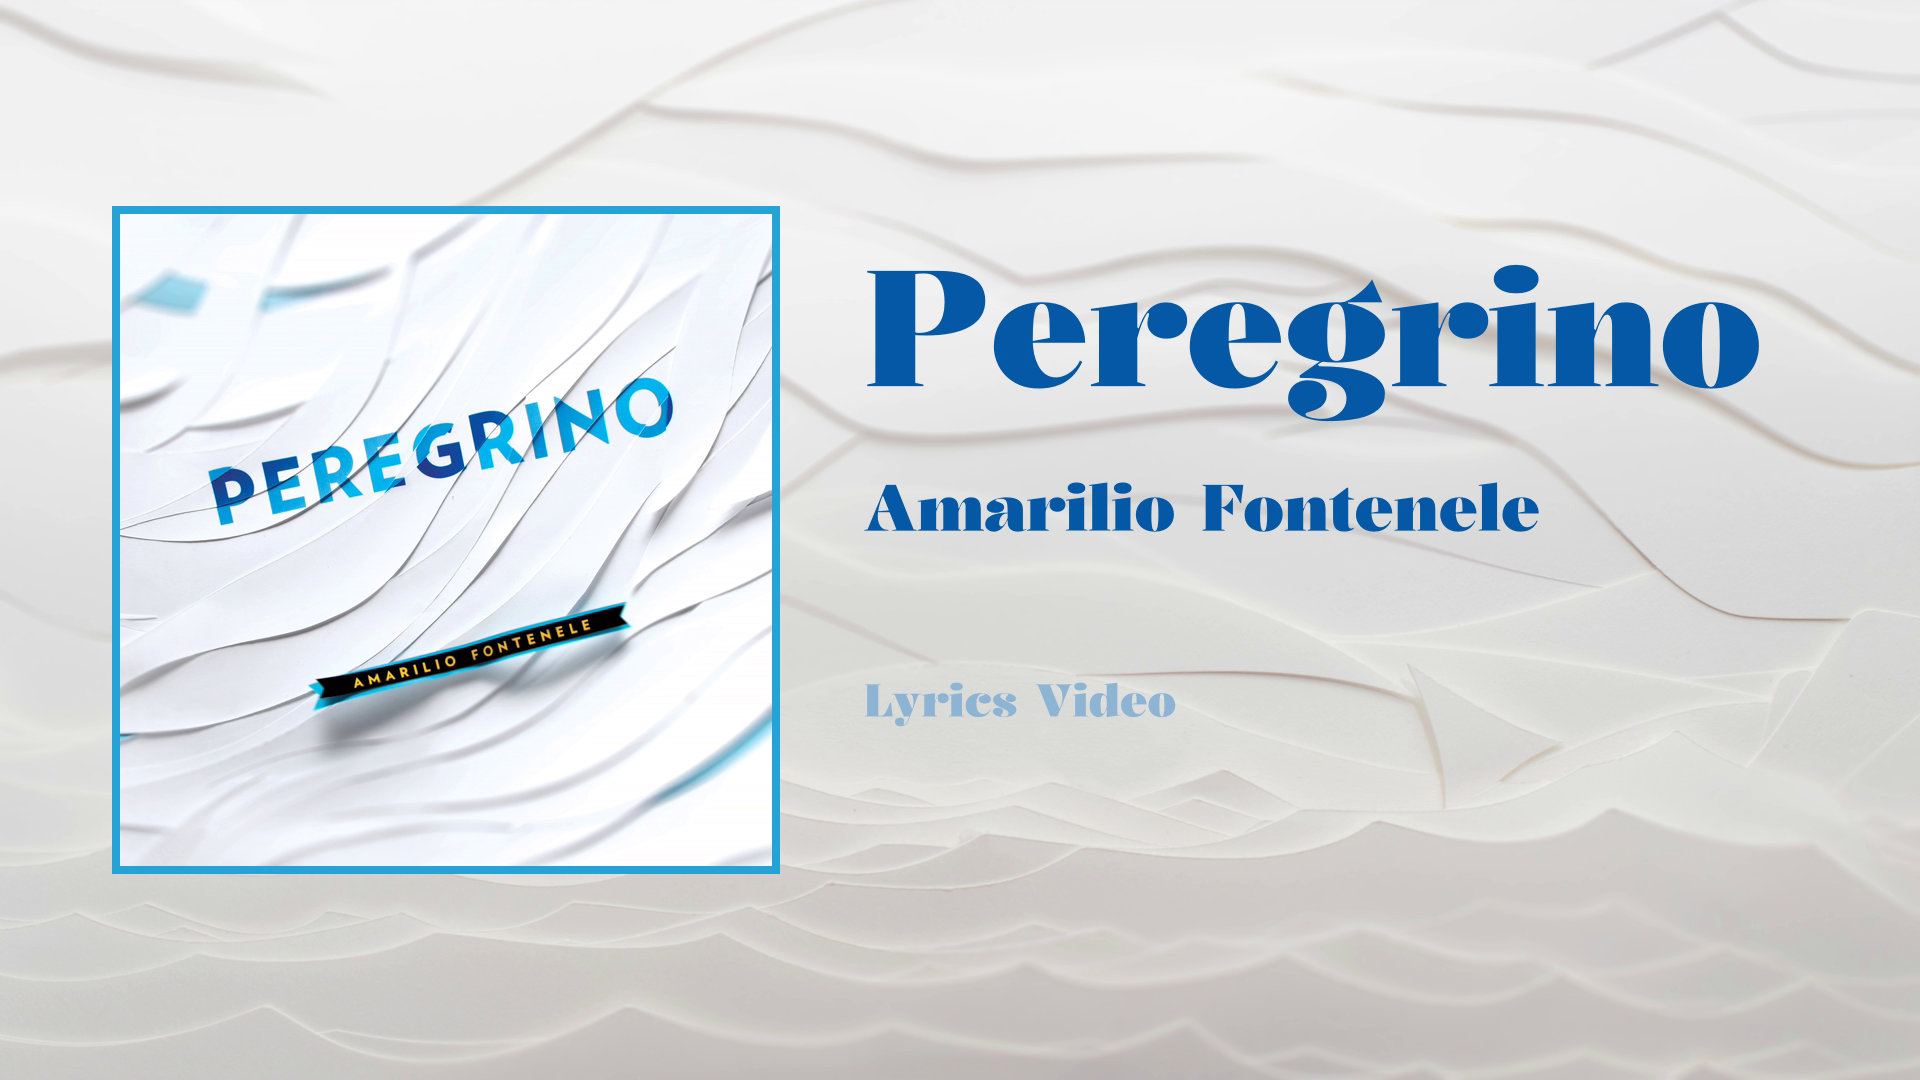
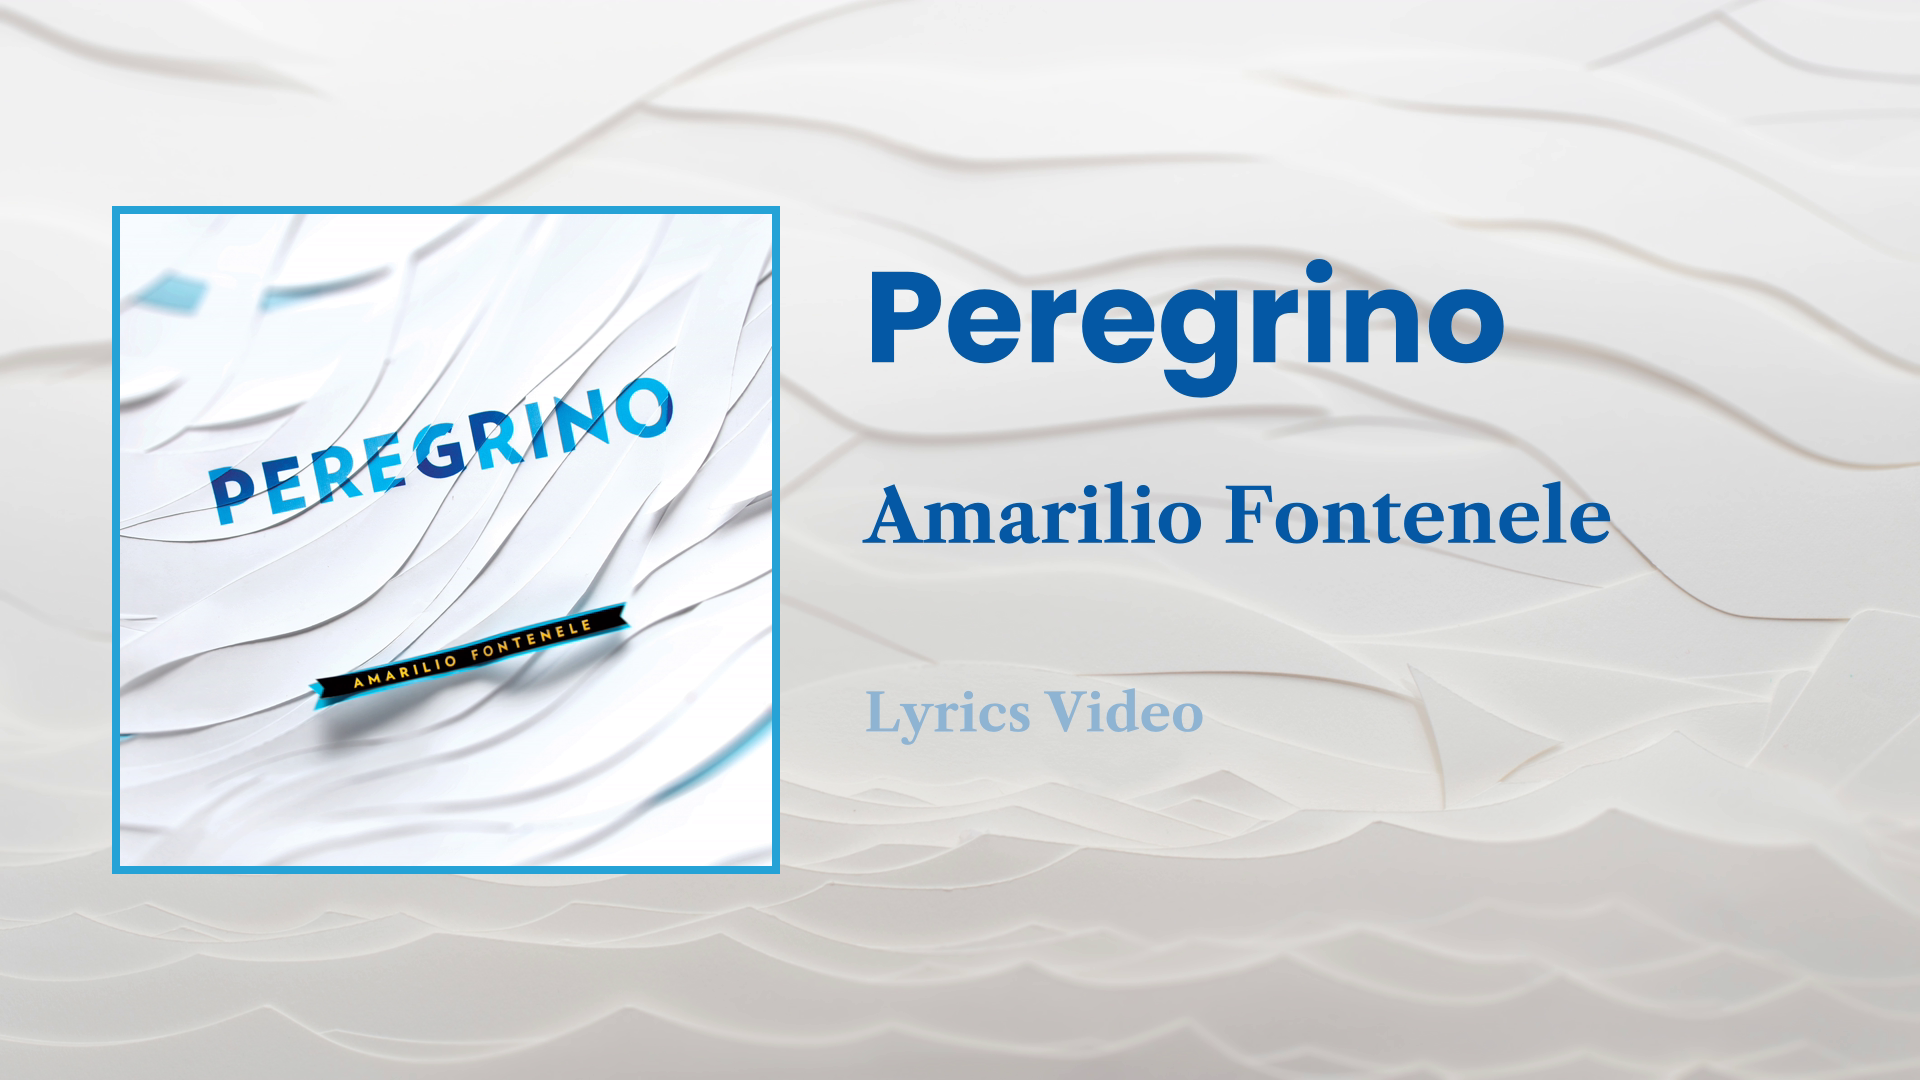
Peregrino brand: Poppins lyrics with Libre Caslon credits
Add a "secondary_font" brand option: the showcase layout's credit
elements (intro author line, "Lyrics Video" tag, block author) can use
their own face while lyrics and titles use the main font. The Peregrino
brand now pairs Poppins (matching the cover's geometric lettering) with
the catalog's Libre Caslon Text for the credits, per the artist's
direction. Thumbnails regenerated.

Claude-Session: https://claude.ai/code/session_019BnkeSAVP8axToWFLK7hek

Changed region(s): [[0.4375, 0.2444, 0.9375, 0.3972], [0.4375, 0.4278, 0.8438, 0.5194], [0.4375, 0.6111, 0.625, 0.7028]]

diff --git a/lyricsvideo/assgen.py b/lyricsvideo/assgen.py
@@ -337,9 +337,13 @@ def build_showcase_ass(
     # Confine the block texts to the strip so long titles wrap inside it.
     block_mr = width - round(width * (g["block_x"] + g["block_w"])) + pad_x
 
-    def style(name, size, color, bold, align, ml, mr, mv):
+    # Author/label elements may use their own face (brand "secondary_font"),
+    # e.g. Peregrino: Poppins lyrics with the credits kept in Libre Caslon.
+    sec_font = getattr(brand, "secondary_font", None) or theme.font
+
+    def style(name, size, color, bold, align, ml, mr, mv, font=None):
         return (
-            f"Style: {name},{theme.font},{size},{_ass_color(color)},{_ass_color(color)},"
+            f"Style: {name},{font or theme.font},{size},{_ass_color(color)},{_ass_color(color)},"
             f"{hidden},{hidden},{bold},0,0,0,100,100,0,0,1,0,0,{align},{ml},{mr},{mv},1"
         )
 
@@ -355,10 +359,10 @@ ScaledBorderAndShadow: yes
 Format: Name, Fontname, Fontsize, PrimaryColour, SecondaryColour, OutlineColour, BackColour, Bold, Italic, Underline, StrikeOut, ScaleX, ScaleY, Spacing, Angle, BorderStyle, Outline, Shadow, Alignment, MarginL, MarginR, MarginV, Encoding
 {style("Lyr", lyr_size, theme.text_color, 1, 7, round(width * g["lyr_left"]), round(width * g["lyr_right"]), round(height * 0.21))}
 {style("BlockTitle", block_title_size, block_text, 1, 7, round(width * g["block_x"]) + pad_x, block_mr, round(height * (g["block_y"] + 0.014)))}
-{style("BlockAuthor", block_author_size, block_text, 0, 7, round(width * g["block_x"]) + pad_x, block_mr, round(height * (g["block_y"] + author_off)))}
+{style("BlockAuthor", block_author_size, block_text, 0, 7, round(width * g["block_x"]) + pad_x, block_mr, round(height * (g["block_y"] + author_off)), font=sec_font)}
 {style("IntroTitle", intro_title_size, theme.text_color, 1, 7, round(width * g["intro_text_x"]), round(width * _INTRO_RIGHT_PAD), round(height * intro_title_y))}
-{style("IntroAuthor", intro_author_size, theme.text_color, 1, 7, round(width * g["intro_text_x"]), round(width * _INTRO_RIGHT_PAD), round(height * intro_author_y))}
-{style("IntroLabel", intro_label_size, theme.dim_color, 1, 7, round(width * g["intro_text_x"]), round(width * _INTRO_RIGHT_PAD), round(height * intro_label_y))}
+{style("IntroAuthor", intro_author_size, theme.text_color, 1, 7, round(width * g["intro_text_x"]), round(width * _INTRO_RIGHT_PAD), round(height * intro_author_y), font=sec_font)}
+{style("IntroLabel", intro_label_size, theme.dim_color, 1, 7, round(width * g["intro_text_x"]), round(width * _INTRO_RIGHT_PAD), round(height * intro_label_y), font=sec_font)}
 
 [Events]
 Format: Layer, Start, End, Style, Name, MarginL, MarginR, MarginV, Effect, Text

diff --git a/lyricsvideo/brand.py b/lyricsvideo/brand.py
@@ -37,7 +37,7 @@ _BRAND_KEYS = _THEME_KEYS | {
     "layout", "title_color", "credit_color", "background", "bg_wash",
     "cover", "album", "artist", "credit", "lines",
     "block_bg", "block_alpha", "block_text_color", "cover_border",
-    "label", "intro",
+    "label", "intro", "secondary_font",
 }
 
 
@@ -61,6 +61,9 @@ class Brand:
     cover_border: str | None = None  # hard border around the cover art
     label: str = "Lyrics Video"  # small label on the intro screen
     intro: bool = True  # title moment before the first lyric
+    # Optional distinct face for the author/label credits (intro author line,
+    # "Lyrics Video" tag, block author) while lyrics/titles use "font".
+    secondary_font: str | None = None
 
     def apply_to(self, theme: Theme) -> Theme:
         return replace(theme, **self.theme_overrides) if self.theme_overrides else theme
@@ -75,7 +78,8 @@ def load_brand(path: str | Path) -> Brand:
 
     brand = Brand(theme_overrides={k: data[k] for k in _THEME_KEYS if k in data})
     for key in ("layout", "title_color", "credit_color", "album", "artist", "credit",
-                "block_bg", "block_text_color", "cover_border", "label"):
+                "block_bg", "block_text_color", "cover_border", "label",
+                "secondary_font"):
         if key in data:
             setattr(brand, key, data[key])
     if "bg_wash" in data:
